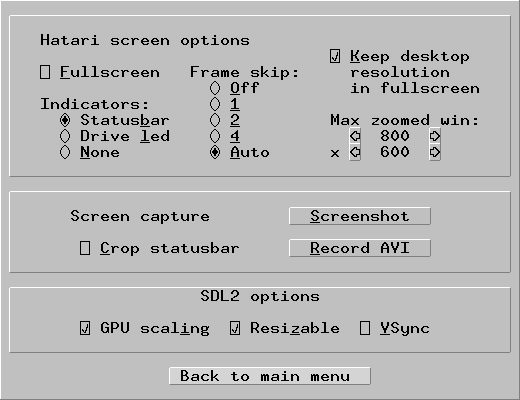
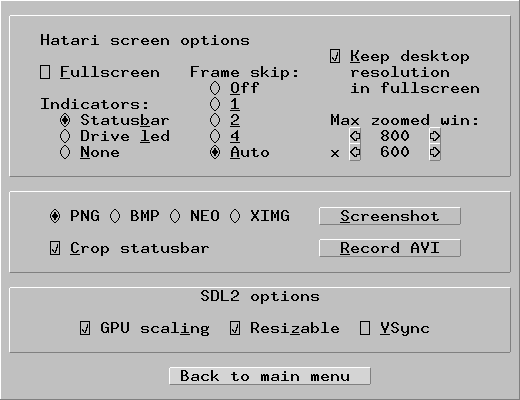
Update screen dialog documentation and image with new screenshot format options (patch by Brad Smith)

diff --git a/doc/manual.html b/doc/manual.html
@@ -1866,8 +1866,13 @@ Note that zooming takes additional CPU computing time and should
 not be enabled on very slow computers.
 </p>
 <p>Click the <span class="button">Screenshot</span> button to create
-a screenshot in PNG (or BMP) format to the current working directory
-or click the <span class="button">Record&nbsp;AVI</span> button to
+a screenshot in the selected format to the current working directory.
+PNG and BMP formats will match the visual output of Hatari.
+NEO and XIMG formats will produce Atari ST native images, but will not include
+borders, or raster palette effects. NEO is limited to the 3 standard ST
+resolutions.
+</p>
+<p>Click the <span class="button">Record&nbsp;AVI</span> button to
 record an AVI format video of Hatari screen (and audio) output.
 </p>
 <p>
